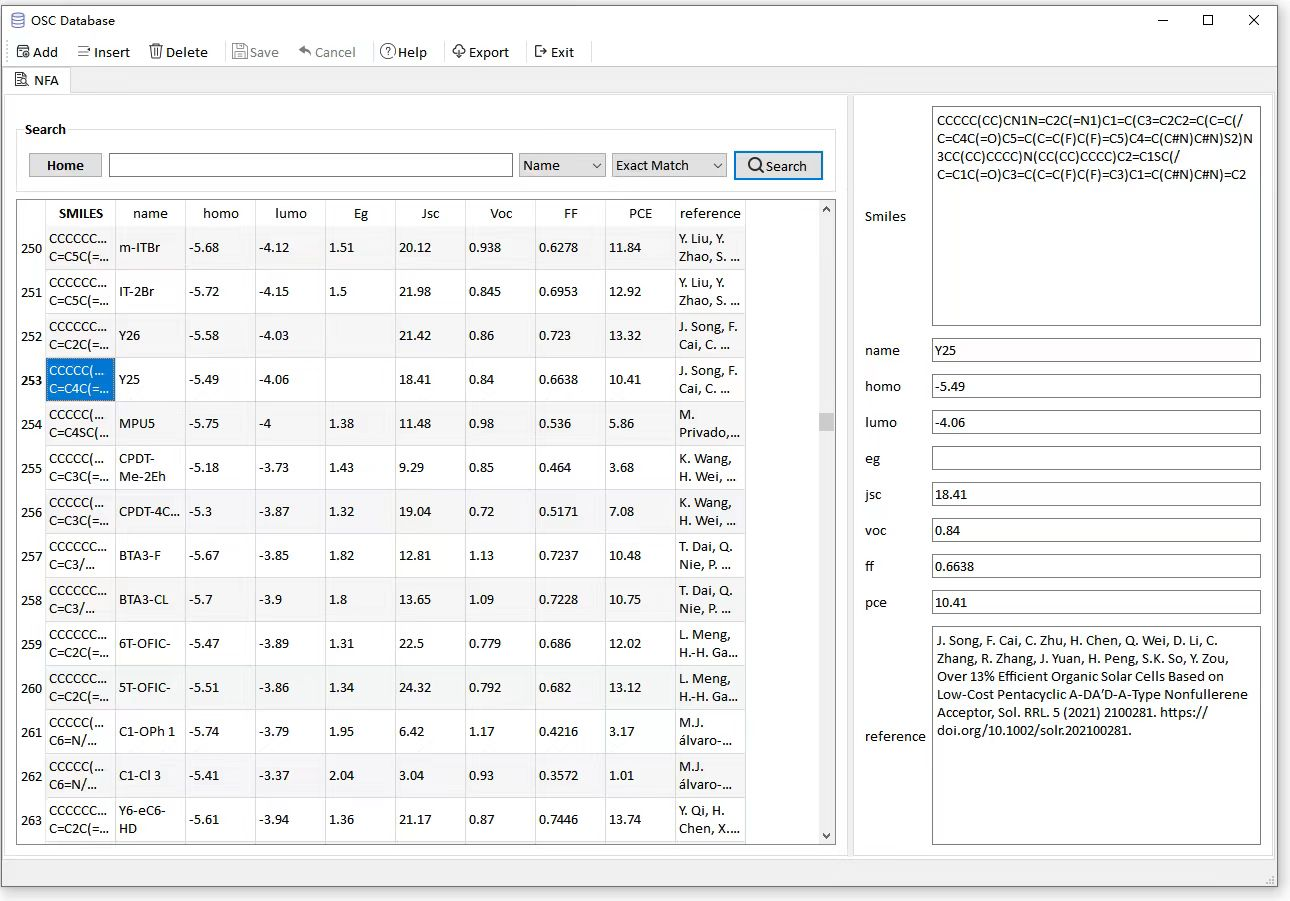
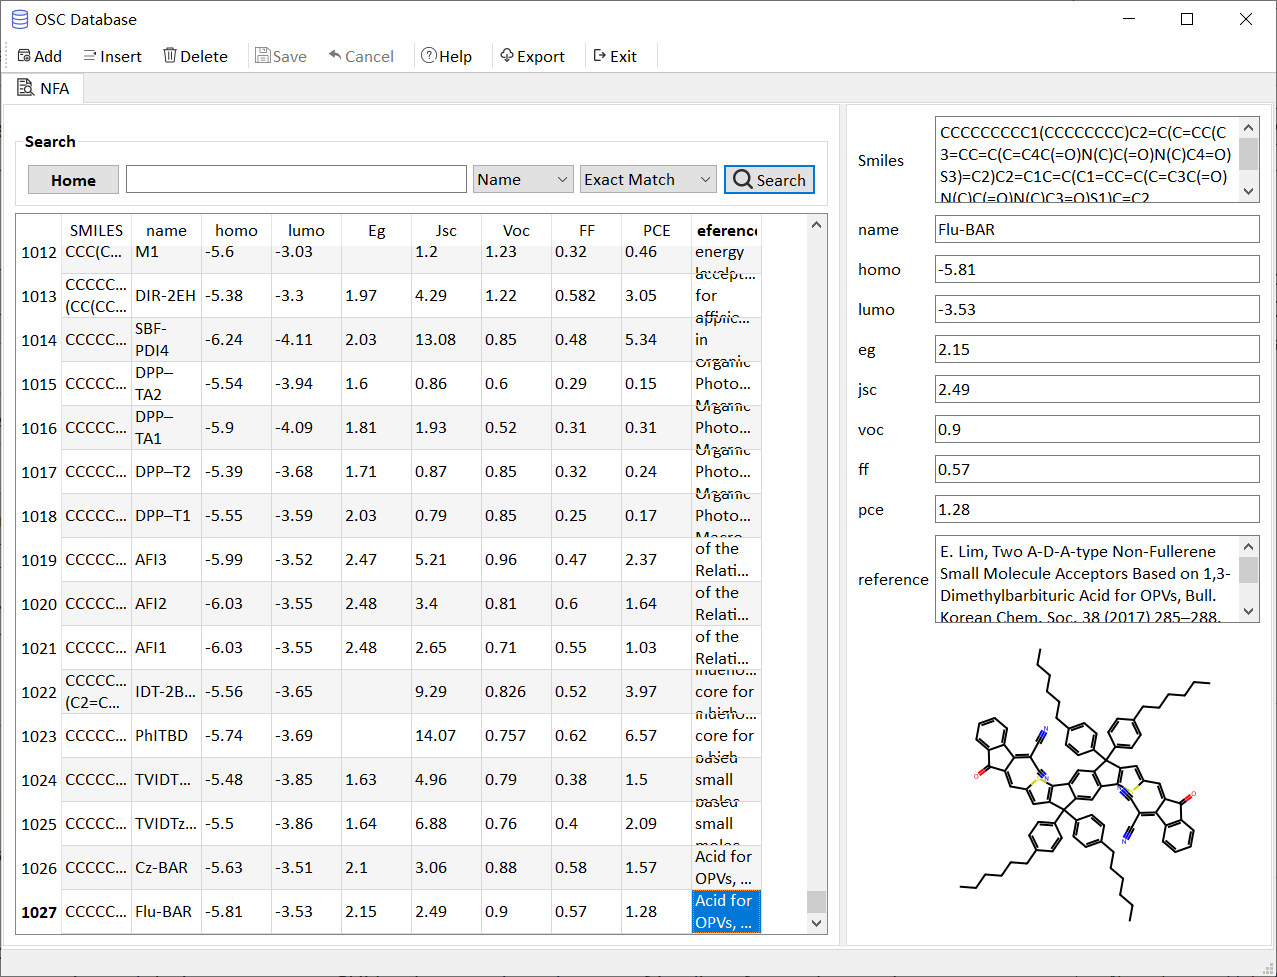
update 2.0.0

Changed region(s): [[0.0, 0.0, 1.0, 1.0]]

diff --git a/README.md b/README.md
@@ -1,6 +1,6 @@
 # OSC-database
 
-The OSC database contains  organic solar cell materials with their SMILES, HOMO, LUMO and device parameters such as open-circuit voltage (VOC), short circuit current (JSC), a fixed fill factor (FF) and PCE were present in the dataset.
+The OSC database contains  organic solar cell materials with their SMILES, HOMO, LUMO and device parameters such as open-circuit voltage (Voc), short circuit current (Jsc), a fixed fill factor (FF) and PCE were present in the dataset.
 
 The GUI was made to aid the organization and reuse of the OSC database. The SQLite database was integrated in the GUI. The database can be read, updated, deleted by the GUI. Moreover, users can look for target materials and properties by searching their names or source article titles, authors or DOIs in the search box of the GUI. The updated database can be exported as a CSV file, which can be used to explore the relationship between molecular structures, molecular properties and device parameters. GUI has been packaged as user-friendly software that can be downloaded and used directly
 
@@ -9,6 +9,8 @@ The GUI was made to aid the organization and reuse of the OSC database. The SQLi
 
 
 ## News!
+
+-[Sep/16/2023] OSC database v2.0.0 :The structures of the acceptors can display in detail information. 
 
 -[Jul/26/2023] OSC database v1.0.0 include experimental dataset  curated from about 500 articles. The dataset including 1027 NFAs such as PDI, DPP, A-D-A series acceptors. If a molecule appears several times in literature, its max PCE was chosen. The type of acceptors was ignored and assuming the donors are in an optimal environment. The detailed information about molecules and their source articles can be found in GUI application. Molecules containing Si and metal atoms were removed from the datasets. 
 
